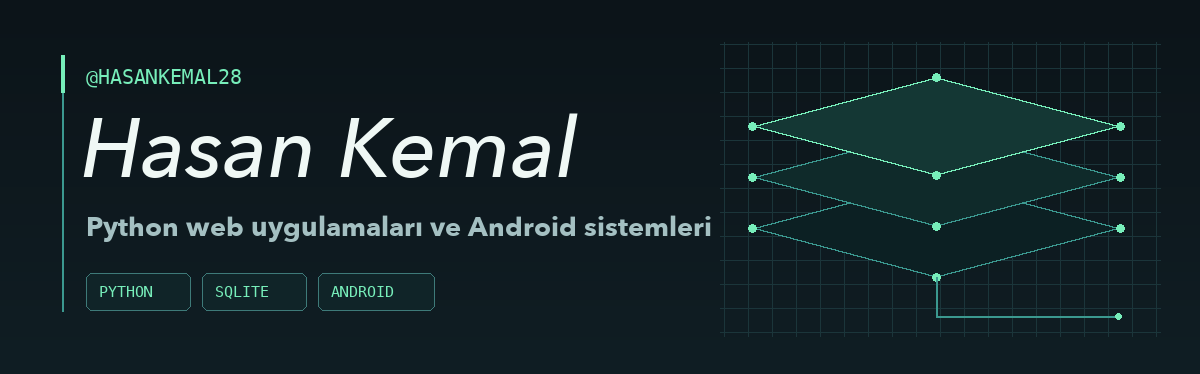
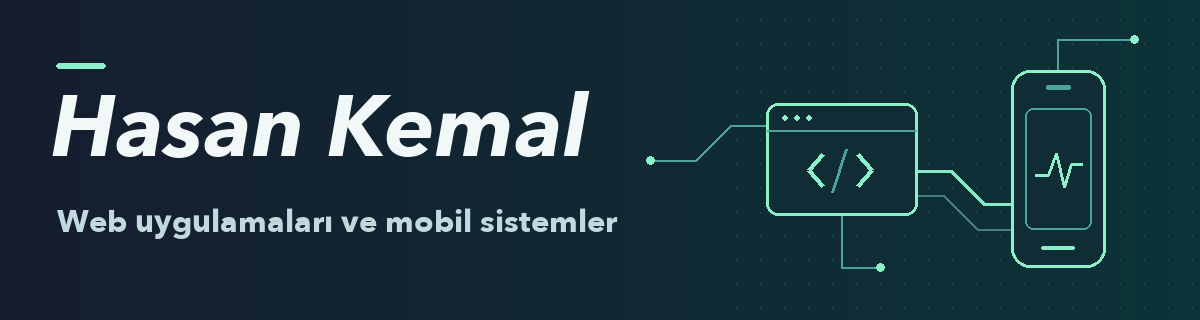
Profil README’sini ve kapak görselini yenile

diff --git a/README.md b/README.md
@@ -1,21 +1,27 @@
-<p align="center">
-  <img src="./profile-banner.png" alt="Hasan Kemal · Python web uygulamaları ve Android sistemleri" width="1200">
-</p>
+<img src="./profile-banner.png" alt="Hasan Kemal | Web uygulamaları ve mobil sistemler" width="1200">
 
-Python ve SQLite ile iş akışlarını web uygulamalarına dönüştürüyorum. Veri modeli, HTTP API ve tarayıcı arayüzü üzerinde çalışıyorum. Android tarafında cihaz ağaçları ve Linux tabanlı mobil sistemlerle ilgileniyorum.
+Python, JavaScript ve SQLite ile günlük iş süreçlerini web uygulamalarına dönüştürüyorum. Mobil tarafta Android cihaz ağaçları ve postmarketOS üzerine çalışıyorum.
 
-## Geliştirme notları
+## Web uygulamaları
 
-| Alan | Teknik odak |
-| --- | --- |
-| Web paneli | Python HTTP API, JavaScript arayüz, SQLite ve şube kapsamına göre yetkilendirme. Personel, cari hesap ve kasa işlemleri aynı panelde. |
-| e‑Fatura | UBL‑TR XML üretimi, XAdES imzası, XSD doğrulaması ve şube bazlı arşiv. Numara tahsisi ile arşiv kaydı aynı veritabanı işleminde. |
-| Android ve mobil Linux | Huawei P20 Lite ve Samsung Galaxy S6 cihaz ağaçları, halium-devices ve postmarketOS kaynakları. |
+**Şube yönetim paneli.** Personel, cari hesap ve kasa işlemlerini tek arayüzde topluyorum. Python HTTP API’si, her şubenin hangi verilere ve işlemlere erişebileceğini yönetiyor.
 
-## Açık depolar
+**e‑Fatura.** UBL‑TR XML üretimi, XSD doğrulaması ve XAdES imzası üzerinde çalışıyorum. Fatura numarası tahsisi ve arşiv kaydı aynı SQLite işlemi içinde tamamlanıyor.
 
-| Proje | Kaynak |
-| --- | --- |
-| Huawei P20 Lite cihaz ağacı | [android_device_huawei_p20lite](https://github.com/hasankemal28/android_device_huawei_p20lite) |
-| Galaxy S6 Android cihaz ağacı | [android_device_samsung_hero2lte](https://github.com/hasankemal28/android_device_samsung_hero2lte) |
-| Galaxy S6 için postmarketOS | [PostmarketOS-for-Samsung-Galaxy-S6-G920F](https://github.com/hasankemal28/PostmarketOS-for-Samsung-Galaxy-S6-G920F) |
+## Android ve mobil Linux
+
+**[Galaxy S6’da postmarketOS](https://github.com/hasankemal28/PostmarketOS-for-Samsung-Galaxy-S6-G920F)**
+
+Samsung Galaxy S6 (SM‑G920F, `zerofltexx`) üzerinde XFCE çalıştırmaya yönelik kurulum notları.
+
+**[Huawei P20 Lite cihaz ağacı](https://github.com/hasankemal28/android_device_huawei_p20lite)**
+
+Huawei Hi6250 tabanlı Android cihaz ağacı için proje deposu.
+
+<details>
+<summary>Fork’lar</summary>
+
+- [Galaxy S7 Edge cihaz ağacı](https://github.com/hasankemal28/android_device_samsung_hero2lte) · Exynos, `hero2lte`
+- [Halium cihaz manifestleri](https://github.com/hasankemal28/halium-devices) · Desteklenen cihazlar için yerel manifestler ve kurulum betiği
+
+</details>
